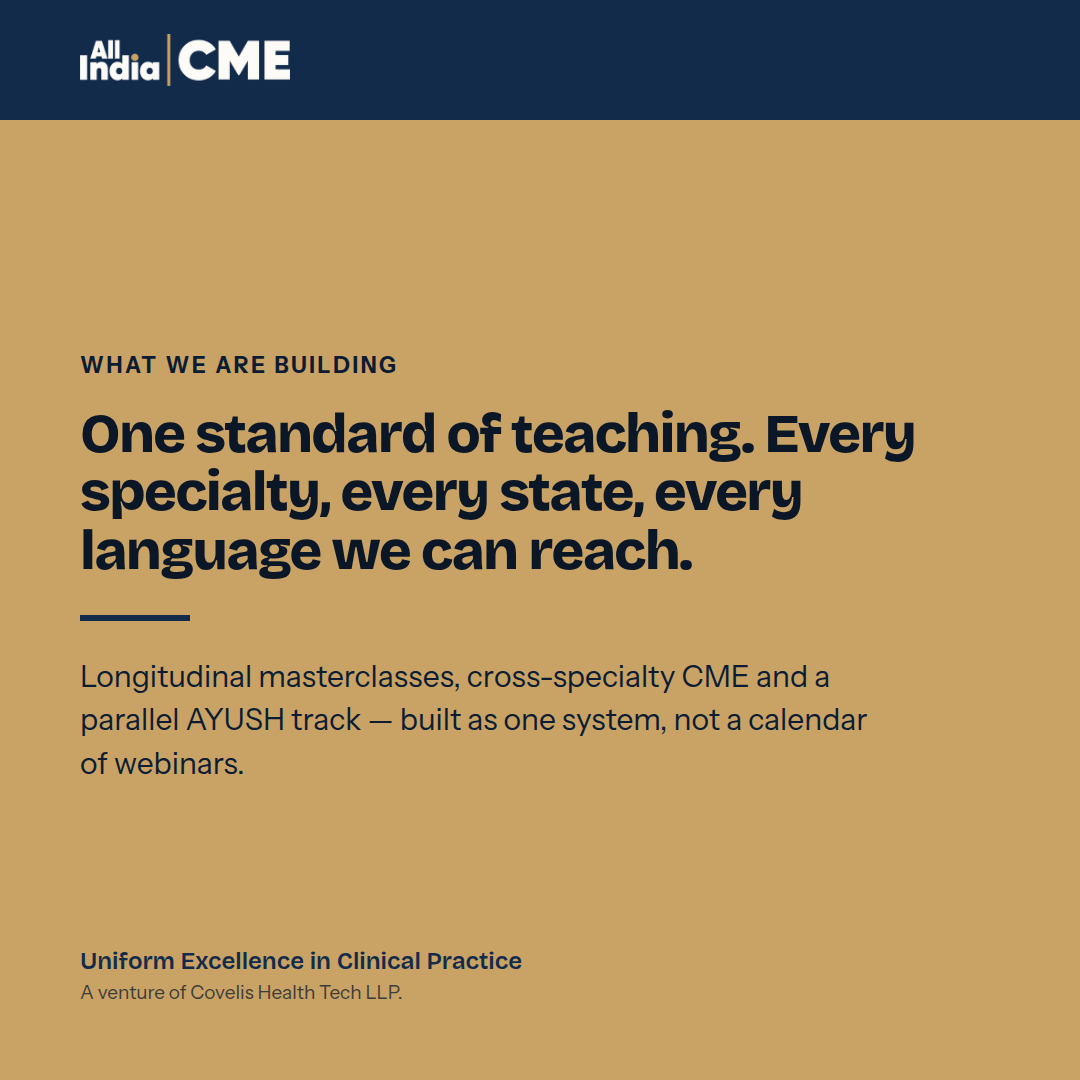
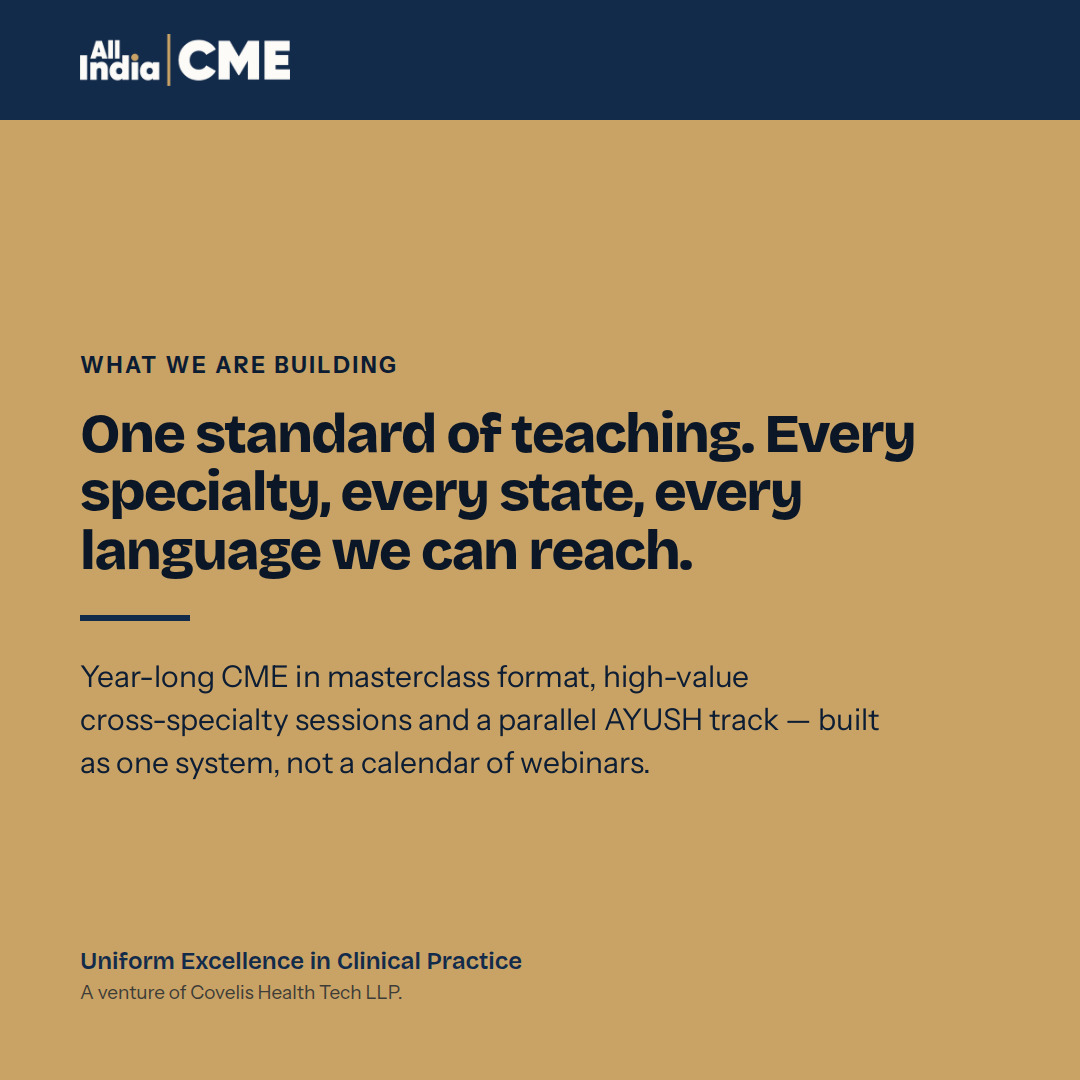
Add social kit (render, lint, standards), empty queue; post 25 support line rewritten CME-first

Changed region(s): [[0.0611, 0.6111, 0.825, 0.7333]]

diff --git a/kit/render.py b/kit/render.py
@@ -1,0 +1,136 @@
+"""All India CME brand renderer, 1080x1080 single squares.
+
+Rebuilt 22 Sep 2026 after the sandbox wipe. Measured against published posts 07 (navy),
+09 (ivory) and 25 (gold): Bricolage Grotesque 800 headlines, Instrument Sans body
+(30 px, 44 px leading), 80 px left margin. The lockup is taken from the published
+launch images so it is pixel-identical to the brand artwork.
+
+    render(post, path) -> {"overflow": bool, "lines": int, "size": float}
+post needs: theme (navy|ivory|gold), eyebrow, headline, sub.
+"""
+import io, os, urllib.request
+from PIL import Image, ImageDraw, ImageFont
+
+HERE = os.path.dirname(os.path.abspath(__file__))
+FONT_DIR = os.path.join(HERE, "fonts")
+RAW = "https://raw.githubusercontent.com/abhigawande-star/allindiacme-social/main/"
+GF = "https://github.com/google/fonts/raw/main/ofl/"
+FONTS = {
+    "brico": GF + "bricolagegrotesque/BricolageGrotesque%5Bopsz,wdth,wght%5D.ttf",
+    "instr": GF + "instrumentsans/InstrumentSans%5Bwdth,wght%5D.ttf",
+}
+NAVY, GOLD, IVORY, INK = (18, 43, 74), (201, 163, 101), (251, 248, 241), (11, 23, 39)
+THEMES = {
+    "navy":  dict(bg=NAVY, eyebrow=(214, 184, 134), head=(252, 251, 247), rule=GOLD,
+                  body=(207, 217, 227), tag=(212, 182, 133), ven=(102, 123, 156), centre=540),
+    "ivory": dict(bg=IVORY, eyebrow=(134, 127, 111), head=INK, rule=GOLD,
+                  body=(68, 64, 62), tag=(154, 119, 66), ven=(163, 154, 141), centre=545),
+    "gold":  dict(bg=GOLD, eyebrow=(16, 31, 54), head=INK, rule=NAVY,
+                  body=(16, 31, 54), tag=(24, 46, 76), ven=(85, 77, 64), centre=565),
+}
+# lockup source: (launch image, crop box) - pasted back at the same box
+LOCKUP = {"navy": ("07", (60, 70, 330, 160)), "ivory": ("09", (60, 88, 330, 170)),
+          "gold": ("25", (0, 0, 1080, 120))}
+X, MAXW, BODYW = 80, 900, 800
+
+
+def _get(url, path):
+    if not os.path.exists(path):
+        os.makedirs(os.path.dirname(path), exist_ok=True)
+        with urllib.request.urlopen(url, timeout=60) as r, open(path, "wb") as f:
+            f.write(r.read())
+    return path
+
+
+def _font(key, size, axes):
+    f = ImageFont.truetype(_get(FONTS[key], os.path.join(FONT_DIR, key + ".ttf")), size)
+    f.set_variation_by_axes(axes)
+    return f
+
+
+def _lockup(theme):
+    n, box = LOCKUP[theme]
+    p = _get(RAW + "AllIndiaCME_awareness_%s.jpg" % n, os.path.join(FONT_DIR, "launch_%s.jpg" % n))
+    return Image.open(p).convert("RGB").crop(box), box
+
+
+def _wrap(text, f, maxw):
+    words, lines, cur = text.split(), [], ""
+    for w in words:
+        t = (cur + " " + w).strip()
+        if f.getlength(t) <= maxw or not cur:
+            cur = t
+        else:
+            lines.append(cur); cur = w
+    lines.append(cur)
+    return lines
+
+
+def _balanced(text, f, maxw):
+    """Greedy wrap, then narrow the measure while the line count holds, for even lines."""
+    lines = _wrap(text, f, maxw)
+    w = maxw
+    while w > 400:
+        t = _wrap(text, f, w - 20)
+        if len(t) != len(lines):
+            break
+        lines, w = t, w - 20
+    return lines
+
+
+def _tracked(d, xy, text, f, fill, track):
+    x, y = xy
+    for ch in text:
+        d.text((x, y), ch, font=f, fill=fill)
+        x += f.getlength(ch) + track
+
+
+def render(post, path):
+    th = THEMES[post["theme"]]
+    im = Image.new("RGB", (1080, 1080), th["bg"])
+    d = ImageDraw.Draw(im)
+    if post["theme"] == "navy":
+        d.rectangle((0, 0, 13, 1079), fill=GOLD)
+    if post["theme"] == "ivory":
+        d.rectangle((0, 0, 1079, 11), fill=NAVY)
+    lk, box = _lockup(post["theme"])
+    im.paste(lk, box[:2])
+
+    # headline: largest size (78 -> 52) that fits in <= 3 lines
+    overflow = False
+    for size in [78, 74, 70, 66, 62, 58, 55, 52]:
+        fh = _font("brico", size, [96, 800, 100])
+        hl = _balanced(post["headline"], fh, MAXW)
+        if len(hl) <= 3 and max(fh.getlength(l) for l in hl) <= MAXW:
+            break
+    else:
+        overflow = True
+    hpitch = round(size * 1.06)
+    fb = _font("instr", 30, [100, 400])
+    body = _wrap(post["sub"], fb, BODYW)
+    if len(body) > 4:
+        overflow = True
+    fe = _font("instr", 23, [100, 600])
+
+    eyebrow_h, gap1, gap2, gap3, rule_h = 22, 24, 42, 35, 6
+    block = eyebrow_h + gap1 + hpitch * len(hl) + gap2 + rule_h + gap3 + 44 * len(body)
+    y = th["centre"] - block // 2
+    _tracked(d, (X, y), post["eyebrow"].upper(), fe, th["eyebrow"], 2.2)
+    y += eyebrow_h + gap1
+    for l in hl:
+        d.text((X, y), l, font=fh, fill=th["head"]); y += hpitch
+    y += gap2
+    d.rectangle((X, y, X + 109, y + rule_h - 1), fill=th["rule"]); y += rule_h + gap3
+    for l in body:
+        d.text((X, y), l, font=fb, fill=th["body"]); y += 44
+    if y > 900:
+        overflow = True
+
+    fy = 946 if post["theme"] == "gold" else 938
+    d.text((X, fy), "Uniform Excellence in Clinical Practice",
+           font=_font("instr", 23, [100, 600]), fill=th["tag"])
+    d.text((X, fy + 34), "A venture of Covelis Health Tech LLP.",
+           font=_font("instr", 19, [100, 400]), fill=th["ven"])
+    os.makedirs(os.path.dirname(os.path.abspath(path)), exist_ok=True)
+    im.save(path, "JPEG", quality=92, subsampling=0)
+    return {"overflow": overflow, "lines": len(hl), "size": size}

diff --git a/kit/lint.py b/kit/lint.py
@@ -1,0 +1,84 @@
+"""Mechanical checks for a queue post. lint(post) -> list of violations (empty = clean).
+
+Rebuilt 22 Sep 2026. Covers the checkable parts of standards.md section A. Clinical accuracy,
+tone and necessity are the Quality Guardian's judgement, not this file's.
+"""
+import re
+
+PILLARS = {"clinical", "educational", "brand", "ayush"}
+THEMES = {"navy", "ivory", "gold"}
+EMOJI = re.compile("[\U0001F000-\U0001FAFF\U00002600-\U000027BF\U0001F1E6-\U0001F1FF]")
+ACRONYMS = {"CME", "AYUSH", "BAMS", "BHMS", "NICU", "ICU", "WHO", "ICMR", "IAP", "FOGSI", "RSSDI",
+            "ISA", "ISCCM", "NNF", "NMC", "OPD", "HbA1c", "ECG", "COPD", "IV", "India", "Indian",
+            "I", "IST", "LLP", "Covelis", "Health", "Tech", "ADA", "ESC", "NICE", "GINA", "GOLD",
+            "KDIGO", "AHA", "ACOG", "RCOG", "SGLT2", "GLP-1", "DKA", "PPH", "BP", "CPR", "BLS", "ALS"}
+BANNED = [
+    (r"\baccredit", "accreditation claim"),
+    (r"\b\d+(\.\d+)?\s*(cme\s*)?credits?\b", "credit figure"),
+    (r"₹|\bINR\b|\bRs\.?\s*\d", "price"),
+    (r"\bfree\b", "price claim ('free')"),
+    (r"\bDr\.?\s+[A-Z]", "named doctor"),
+    (r"\b(AIIMS|PGIMER|JIPMER|CMC Vellore)\b", "named institution"),
+    (r"\b(Mon|Tue|Wed|Thu|Fri|Sat|Sun)[a-z]*\s+\d{1,2}\s+(Jan|Feb|Mar|Apr|May|Jun|Jul|Aug|Sep|Oct|Nov|Dec)",
+     "session date"),
+    (r"masterclasses?\s*(,|and)\s*(cross-specialty\s+)?CME", "masterclass set against CME (rule A2)"),
+]
+
+
+def _sentence_case_problem(s):
+    words = re.findall(r"[A-Za-z][A-Za-z0-9\-']*", s)
+    caps = [w for i, w in enumerate(words) if i > 0 and w[0].isupper() and w not in ACRONYMS
+            and not re.search(r"[.!?:]\s+" + re.escape(w), s)]
+    return len(words) > 3 and len(caps) >= 2
+
+
+def lint(post):
+    v = []
+    for k in ("id", "date", "slot", "pillar", "theme", "eyebrow", "headline", "sub", "caption", "status"):
+        if not post.get(k):
+            v.append("missing field: " + k)
+    if v:
+        return v
+    if post["pillar"] not in PILLARS:
+        v.append("pillar must be one of " + ", ".join(sorted(PILLARS)))
+    if post["theme"] not in THEMES:
+        v.append("theme must be navy, ivory or gold")
+    if post["slot"] not in ("09:30", "17:30"):
+        v.append("slot must be 09:30 or 17:30")
+    if post["pillar"] == "clinical" and not (post.get("source") and post.get("source_url")):
+        v.append("clinical post needs source and source_url")
+
+    visible = " ".join([post["eyebrow"], post["headline"], post["sub"], post["caption"]])
+    if EMOJI.search(visible):
+        v.append("emoji present")
+    for field in ("eyebrow", "headline", "sub"):
+        if _sentence_case_problem(post[field]):
+            v.append(field + " looks like Title Case; use sentence case")
+    for pat, why in BANNED:
+        if re.search(pat, visible, re.I if why != "named doctor" else 0):
+            v.append("banned content: " + why)
+    # rule A2: masterclass only ever as the format of CME
+    sents = [s for fld in ("eyebrow", "headline", "sub", "caption")
+             for s in re.split(r"(?<=[.!?])\s+|\n+", post[fld])]
+    for sent in sents:
+        if re.search(r"masterclass", sent, re.I) and "CME" not in sent:
+            v.append("rule A2: 'masterclass' used without CME in the same sentence: " + sent[:80])
+
+    cap = post["caption"]
+    body, sep, tags = cap.rpartition("\n\n")
+    if not sep or not re.fullmatch(r"#CME #MedEd #[A-Za-z0-9]+", tags.strip()) or tags != tags.strip():
+        v.append("caption must end with a blank line then exactly '#CME #MedEd #Theme'")
+    if "#" in body:
+        v.append("hashtag inside caption body")
+    n = len(body.split())
+    if not 60 <= n <= 180:
+        v.append("caption body is %d words; must be 60-180" % n)
+    if len(post["headline"]) > 90:
+        v.append("headline over 90 characters")
+    if len(post["sub"]) > 200:
+        v.append("support line over 200 characters")
+    if len(post["eyebrow"]) > 28:
+        v.append("eyebrow over 28 characters")
+    if re.search(r"\b\d+(\.\d+)?\s*%", visible) and post["pillar"] != "clinical":
+        v.append("statistic in a non-clinical post; numbers need a source")
+    return v

diff --git a/kit/standards.md b/kit/standards.md
@@ -1,0 +1,59 @@
+# All India CME — social standards
+
+Shared rulebook for the Content Factory, Quality Guardian, Publisher and Standards Researcher.
+Rebuilt 22 Sep 2026 after the sandbox wipe. The master copy now lives in the GitHub repo
+`abhigawande-star/allindiacme-social` (`kit/standards.md`), mirrored in the project as
+`claude/social-kit/standards.md`.
+
+---
+
+## A. Fixed brand rules — founder only
+
+No worker edits this section. The Standards Researcher may propose a change in section C.
+*Restored 22 Sep 2026 word for word from the founder-set rules recorded in
+`claude/social-media-strategy.md` §4 and the safety rules in `claude/social-content-machine.md`.*
+
+1. **Clinical accuracy outranks engagement.** A dose, caveat or contraindication is never cut to
+   make a line read better. Never sacrifice medical credibility for reach.
+2. **CME first; masterclass is the format, not the product** (founder, 22 Sep 2026). What All
+   India CME offers is CME. The masterclass is how that CME is taught: longitudinal, one skill,
+   twenty-four sessions a year. Say "CME in masterclass format", "a year-long CME programme",
+   "CME, taught the masterclass way", "a CME masterclass". Never present "masterclass" as the
+   product, never set masterclasses against CME ("masterclasses and cross-specialty CME"), and
+   never describe the masterclass without saying it is CME.
+3. Sentence case everywhere. **No emoji, ever.**
+4. Exactly three hashtags, always `#CME #MedEd` plus one theme tag, after a blank line at the end
+   of the caption. No hashtags inside the body.
+5. No claim without a number behind it, and no number without a source. No invented statistics.
+6. Every image carries the lockup, the tagline *Uniform Excellence in Clinical Practice* and
+   *A venture of Covelis Health Tech LLP.* (render.py does this).
+7. Grid rhythm navy → ivory → gold across consecutive slots; gold never next to gold.
+8. **Not until the founder confirms them:** no CME dates, faculty names, prices, accreditation or
+   credit claims, partner names, and no CME promotion posts.
+9. Every clinical claim is tied to a named, current guideline that both the Factory and the
+   Guardian opened. Indian body first (IAP, FOGSI, RSSDI, ICMR, ISA, ISCCM, NNF), else WHO or the
+   leading international guideline. Generic drug names only.
+10. Vignettes are invented and generic. No patient-identifiable detail, however anonymised.
+11. Respect protocol (Architecture §12): professional, courteous, never shaming, never
+    manipulative, no pressure.
+
+## B. Strategy — the Standards Researcher edits, with date and source
+
+- **Cadence:** 2 posts a day, 09:30 and 17:30 IST.
+- **Mix (share of output):** clinical knowledge 40%, educational 25%, brand 20%, CME promotion 10%
+  (paused until A8 clears — use clinical or educational instead), post-CME 5% (none yet).
+  AYUSH-relevant posts sit inside these pillars; aim for about one in seven.
+- **Rotation:** no topic or headline repeated within the last 60 posts. Rotate specialties:
+  obstetrics and gynaecology, anaesthesia and pain, paediatrics and neonatology, diabetes and
+  internal medicine, cardiology, orthopaedics, radiology, AYUSH.
+- **Clinical post shape:** one actionable point, the caveat that matters, source on the image or
+  in the caption.
+- **Formats from 9 Oct 2026** (strategy §3.1): per week 10 single squares, 2 reference carousels
+  (≤10 slides), 2 MCQ question carousels; never two carousels back to back; not on CME day or the
+  day before. Carousels need the Publisher's carousel flow first; until it is tested, draft single
+  squares only.
+- **Optimise for** shares and saves, not likes.
+
+## C. Research log — dated entries, newest first
+
+- 22 Sep 2026 — File rebuilt after the sandbox reset. No research entries were recoverable.
